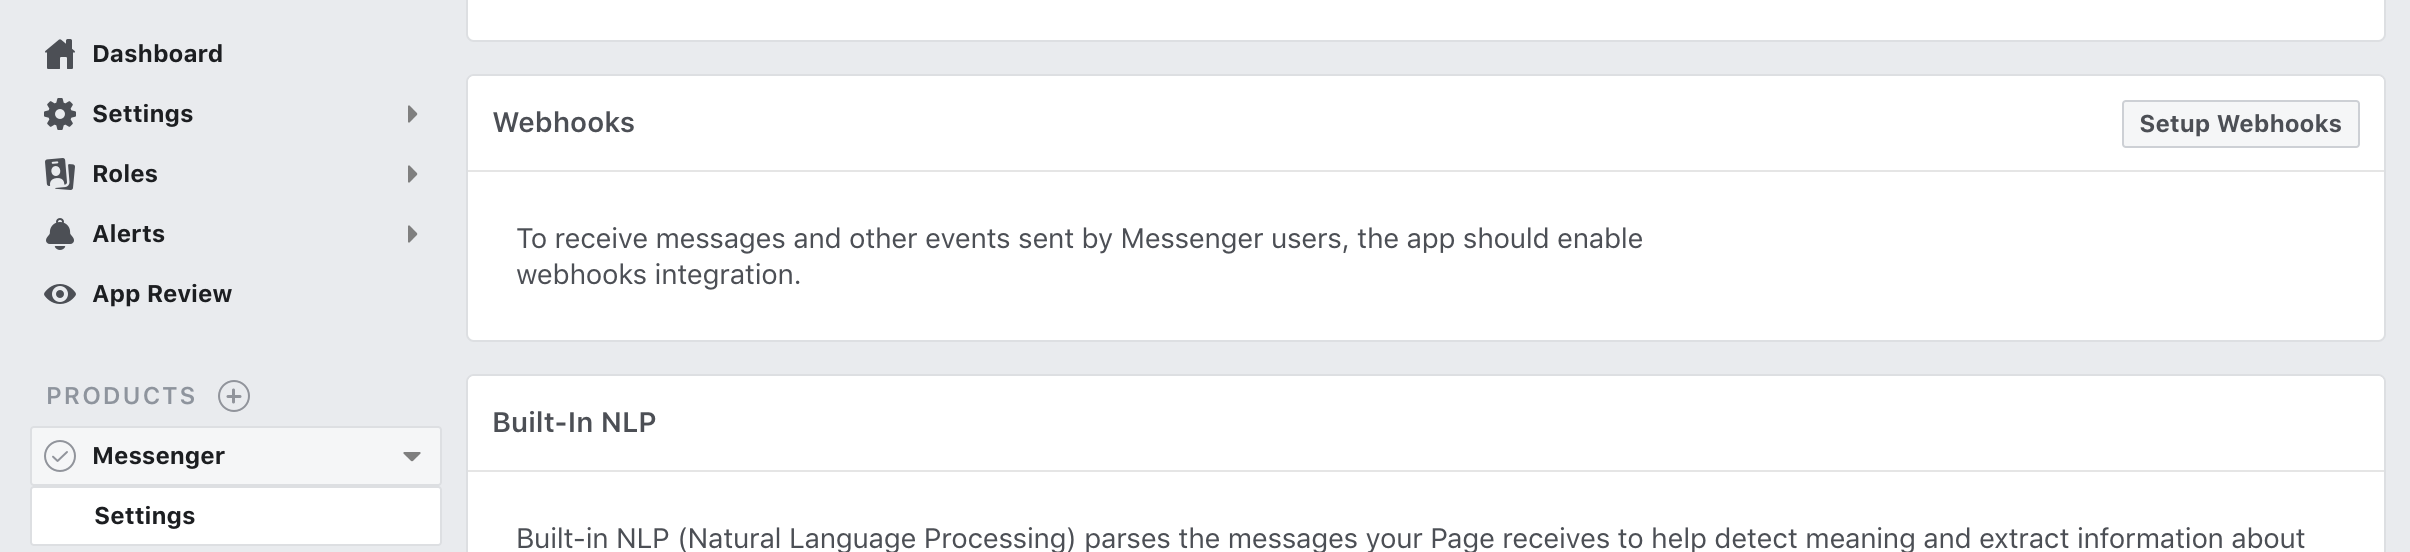
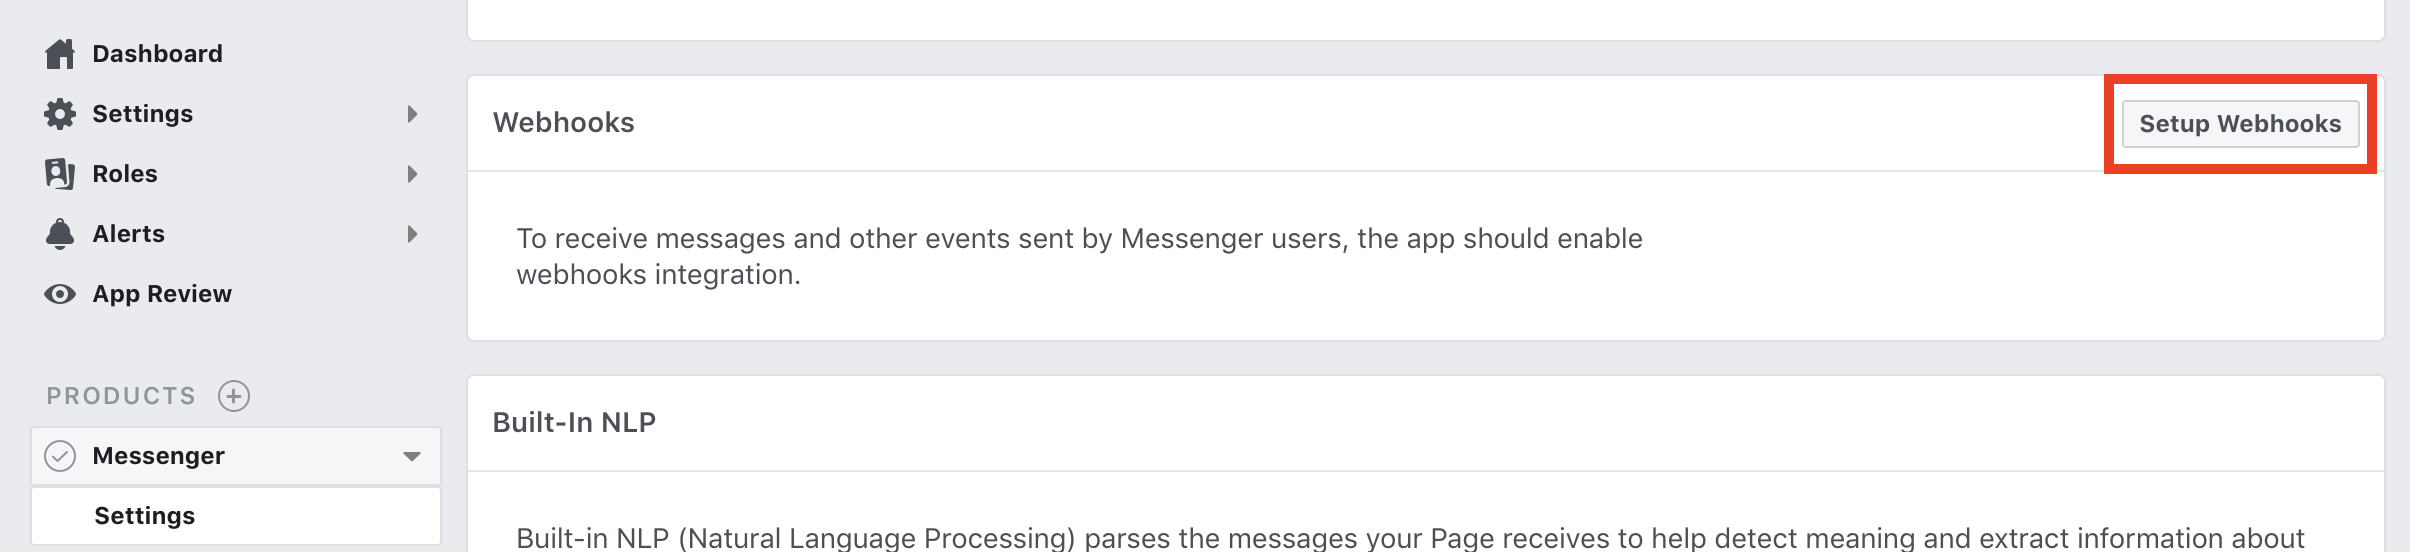
Modified lab 500 according to Linda's comments

Changed region(s): [[0.8714, 0.1232, 0.9959, 0.3388]]

diff --git a/Lab500.md b/Lab500.md
@@ -1,15 +1,18 @@
-# Lab 500: Create Channel and Interact with Chatbot on Facebook Messenger
+# Lab 500: Create Facebook Channel & Interact with Chatbot on Facebook Messenger
 ## Introduction
 In this lab, we will learn about channels and make the chatbot available through the Facebook Messenger.
 
 ## Objectives
-- Clear understanding of channels
-- Integrating chatbot with facebook messenger.
+- Congfigure Facebook channel for bot
+- Create the Facebook messenger app
+- Interact with UniversityWorkshop Bot on Website
 
 ## Required Artifacts
 - The following lab requires an Oracle Public Cloud account. You may use your own cloud account, a cloud account that you obtained through a trial, or a training account whose details were given to you by an Oracle instructor.
 - You should have completed Lab 100 of this workshop.
 - You should have completed Lab 200 of this workshop.
+- You may have completed Lab 300 of this workshop.
+- You may have completed Lab 400 of this workshop.
 
 ---
 ### Step 1: Setting Up Facebook Messenger
@@ -18,31 +21,31 @@ Start off by generating the App Secret and the Page Access token in Facebook Mes
 
 2. Create a Facebook page that hosts your bot. The description, images, and cover page you add to the page will identify your bot to its users.
 
-3. Next, create the Facebook app that you’ll link to this page. Because this is a Messenger app, choose Apps for Messenger and then click Create App ID.
+3. Next, create the Facebook app that you’ll link to this page. Because this is a Messenger app, choose Apps for Messenger and then click **Create App ID**.
 
 ![](./images/500/1.png)
 
-Once you create the app, you will see the App ID on the top of your screen.
+Once you create the app, you will see the **App ID** on the top of your screen.
 
 ![](./images/500/2.png)
 
 ### Step 2: Set up messenger for your Facebook App.
-Now click on the settings on the top left side pane and get the App Secret which is required to integrate with your UniversityWorkshop bot.
+Now click on the settings on the top left side pane and get the **App Secret** which is required to integrate with your UniversityWorkshop bot.
 
 ![](./images/500/3.png)
 
-You should also add the messenger product to your app setup Messenger. Goto dashboard and click Setup under messenger product.
+You should also add the messenger product to your app setup Messenger. Goto dashboard and click **Setup** under messenger product.
 
 ![](./images/500/4.png)
 
-Once you added the messenger product, goto settings and scroll down until you find the Token Generation Card.
-Select a facebook page which you have already created for the University of Illinois and copy the page access token which is generated dynamically.
+Once you added the messenger product, goto settings and scroll down until you find the **Token Generation Card**.
+Select a facebook page which you have already created for your university and copy the page access token which is generated dynamically.
 
 ![](./images/500/5.png)
 
 ### Step 3: Create facebook channel in the UniversityWorkshop bot.
 
-- Navigate to UniversityWorkshop bot and click on Settings icon and **Channel**
+- Navigate to UniversityWorkshop bot and click on Settings icon and **Channels**
 
 ![](./images/400/1.png)
 
@@ -52,11 +55,11 @@ Select a facebook page which you have already created for the University of Illi
 ![](./images/400/2.png)
 
 - Enter the following information in the prompt:
-    - Name: `Facebook`
-    - Description: `Facebook channel for University of Illinois`
+    - Name: `Facebook` for example
+    - Description: `Facebook channel for University` for example
     - Channel Type: `Facebook Messenger`
-    - Page Access Token: Paste the page access token which you have copied.
-    - App Secret: Paste the App Secret which you have copied.
+    - Page Access Token: Paste the page **Access token** which you have copied.
+    - App Secret: Paste the **App Secret** which you have copied.
     - Turn on **Channel Enabled**
 - Click on **Create**
 
@@ -66,7 +69,7 @@ Select a facebook page which you have already created for the University of Illi
 
 ![](./images/500/7.png)
 
-Copy the Webhook URL, Verify Token and navigate to the facebook developer page. Goto messenger settings and scroll down until you see Webhooks Card. Click on SetUp Webhook
+Copy the Webhook URL, Verify Token and navigate to the facebook developer page. Goto messenger settings and scroll down until you see Webhooks Card. Click on **SetUp Webhook**
 
 ![](./images/500/8.png)
 
@@ -74,7 +77,7 @@ Paste the Webhook URL and Verify Token which you copied from the UniversityWorks
 
 ![](./images/500/9.png)
 
-Once you are done, select the facebook page and click subscribe.
+Once you are done, select the facebook page and click **Subscribe**.
 
 ![](./images/500/10.png)
 
@@ -86,4 +89,4 @@ Type in your chatbot/facebook page name in the chatbox area to test the function
 
 - This concludes our chatbot workshop. The materials in this workshop is just the tip of the iceberg of Intelligent Bot and AMCe's capabilities. Here is the documentation for AMCe if you are interested in learning more: https://docs.oracle.com/en/cloud/paas/mobile-autonomous-cloud/index.html. We look forward to seeing what you can build with AMCe! 
 
-- If you have any questions or would like more information, feel free to contact us at tom.huang@oracle.com and nardos.megersa@oracle.com . We are happy to set up demos, workshops, or prototypes for your use case! 
+- If you have any questions or would like more information, feel free to contact us at santosh.kunchala@oracle.com. We are happy to set up demos, workshops, or prototypes for your use case! 

diff --git a/Lab400.md b/Lab400.md
@@ -3,8 +3,9 @@
 In this lab, we will learn about channels and make the chatbot available through the University site.
 
 ## Objectives
-- Clear understanding of channels
-- Integrating chatbot with website.
+- Congfigure web channel for bot
+- Configuring the Static Website with Chatbot SDK 
+- Interact with UniversityWorkshop Bot on Website
 
 ## Required Artifacts
 - The following lab requires an Oracle Public Cloud account. You may use your own cloud account, a cloud account that you obtained through a trial, or a training account whose details were given to you by an Oracle instructor.
@@ -13,7 +14,7 @@ In this lab, we will learn about channels and make the chatbot available through
 - You may have completed Lab 300 of this workshop.
 
 ---
-### Step 1: Add a Channel for website
+### Step 1: Add a Web Channel for website
 Bots aren’t apps that you download from an app marketplace. Instead, users access them through messaging platforms or through client messaging apps, such as Facebook Messenger, a custom mobile app, or in our case, a website. Channels, which are platform-specific configurations, allow this access. A single bot can have several channels configured for it so that it can run on different services simultaneously.
 
 - Navigate to UniversityWorkshop bot and click on Settings icon on the left side panel and **Channels** tab.
